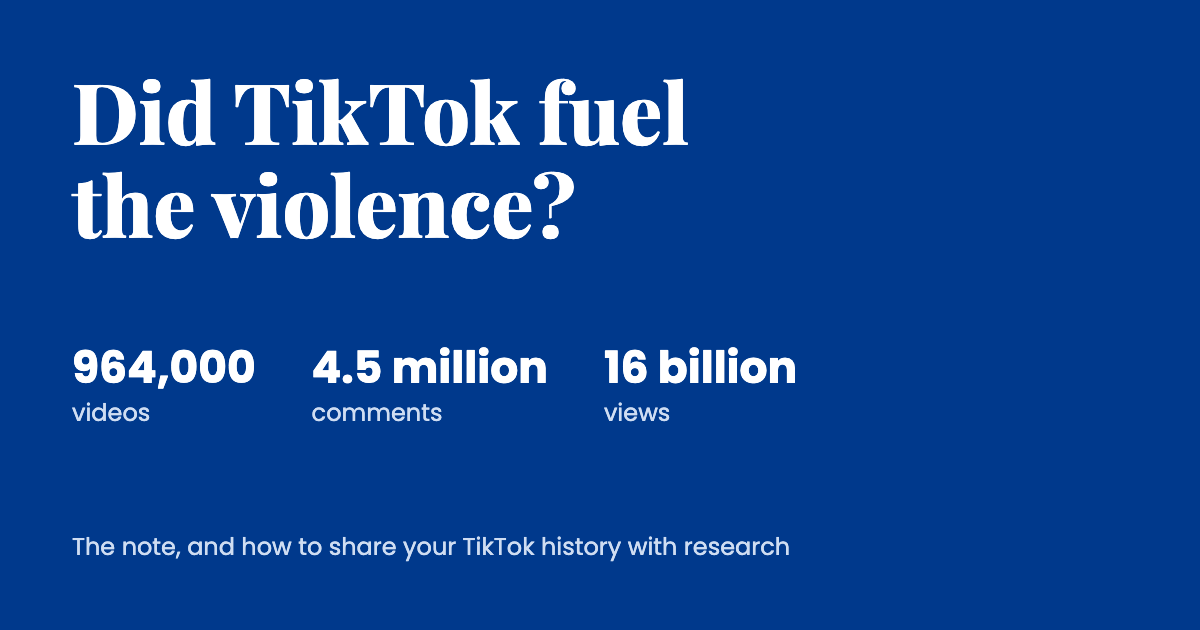
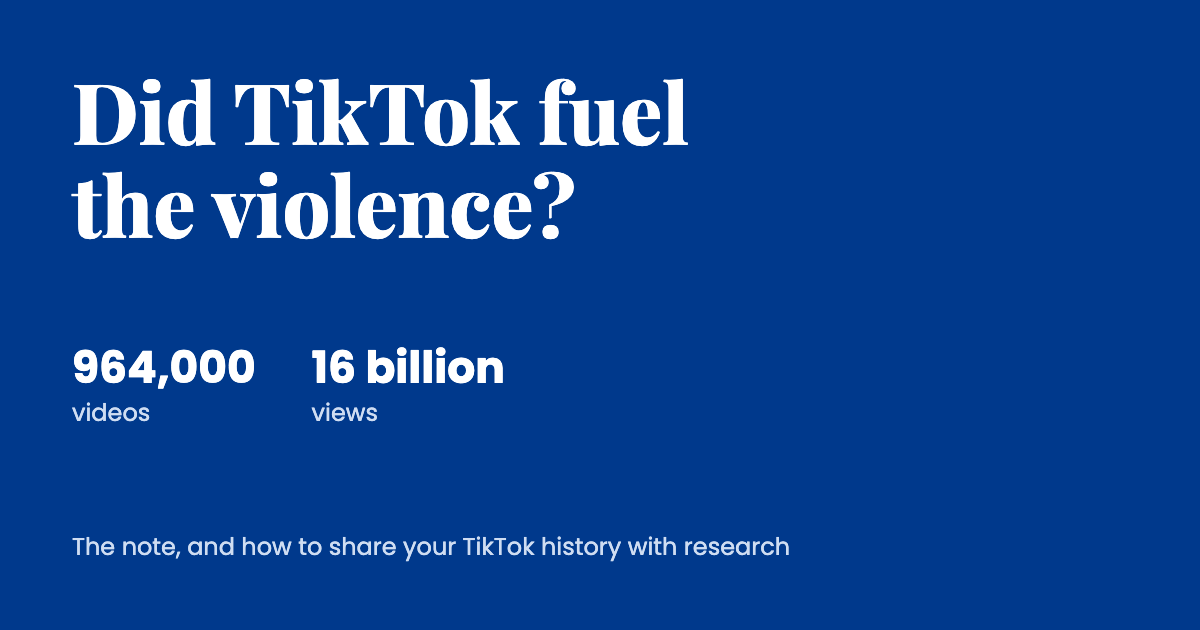
Remove the comment count from the opening

Changed region(s): [[0.2467, 0.5429, 0.4625, 0.6937], [0.4933, 0.5429, 0.6783, 0.6333], [0.4933, 0.6333, 0.555, 0.6635]]

diff --git a/assets/style.css b/assets/style.css
@@ -60,7 +60,7 @@ ul { padding: 0; list-style: none; }
 .peak.b { right: calc(20.7% + 10px); top: 0; }
 .axis { display: flex; justify-content: space-between; color: var(--navy-soft); font-size: .8rem; margin-top: 6px; }
 
-.stats { display: grid; grid-template-columns: repeat(3, 1fr); margin-top: 44px; border-top: 1px solid rgba(255, 255, 255, .25); padding-top: 20px; }
+.stats { display: grid; grid-template-columns: repeat(2, 1fr); margin-top: 44px; border-top: 1px solid rgba(255, 255, 255, .25); padding-top: 20px; }
 .stats b { display: block; font-size: clamp(1.5rem, 3.6vw, 2.4rem); line-height: 1.15; font-weight: 700; }
 .stats span { color: var(--navy-soft); font-size: .95rem; }
 

diff --git a/index.html b/index.html
@@ -47,7 +47,6 @@
       </div>
       <ul class="stats">
         <li><b>964&nbsp;000</b> <span>vidéos</span></li>
-        <li><b>4,5&nbsp;millions</b> <span>de commentaires</span></li>
         <li><b>16&nbsp;milliards</b> <span>de vues</span></li>
       </ul>
     </div>

diff --git a/en/index.html b/en/index.html
@@ -47,7 +47,6 @@
       </div>
       <ul class="stats">
         <li><b>964,000</b> <span>videos</span></li>
-        <li><b>4.5 million</b> <span>comments</span></li>
         <li><b>16 billion</b> <span>views</span></li>
       </ul>
     </div>
